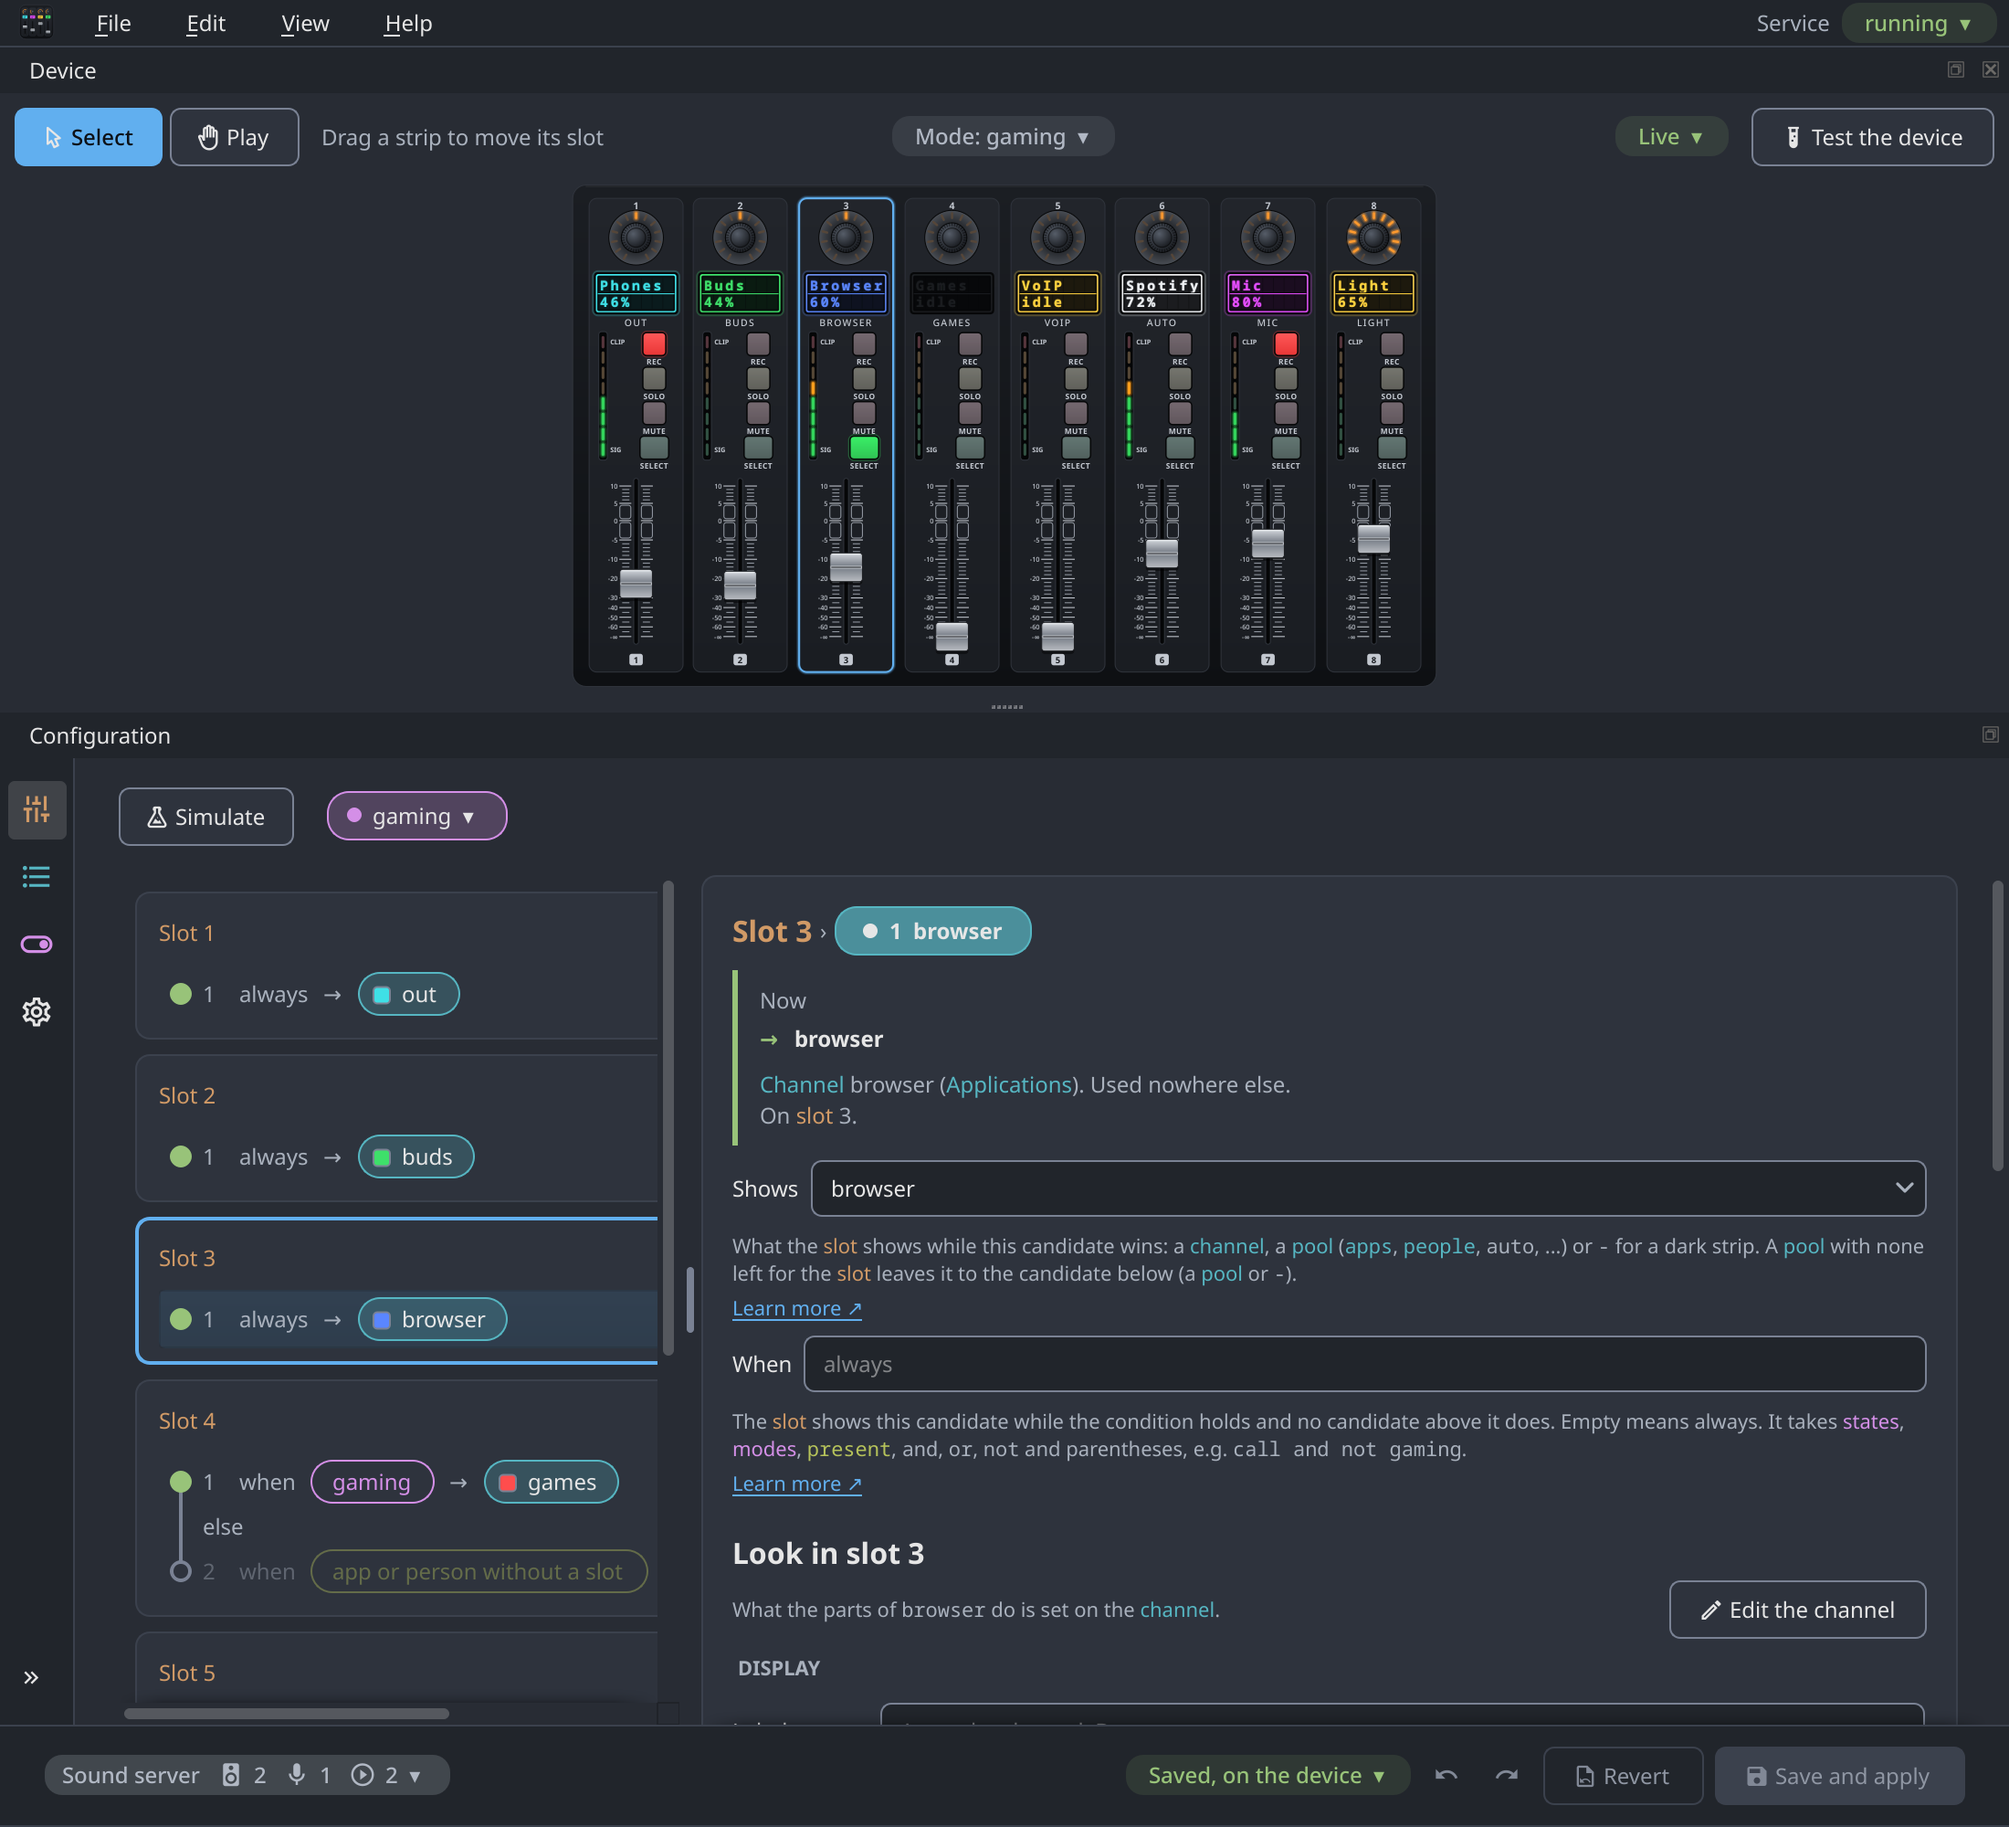
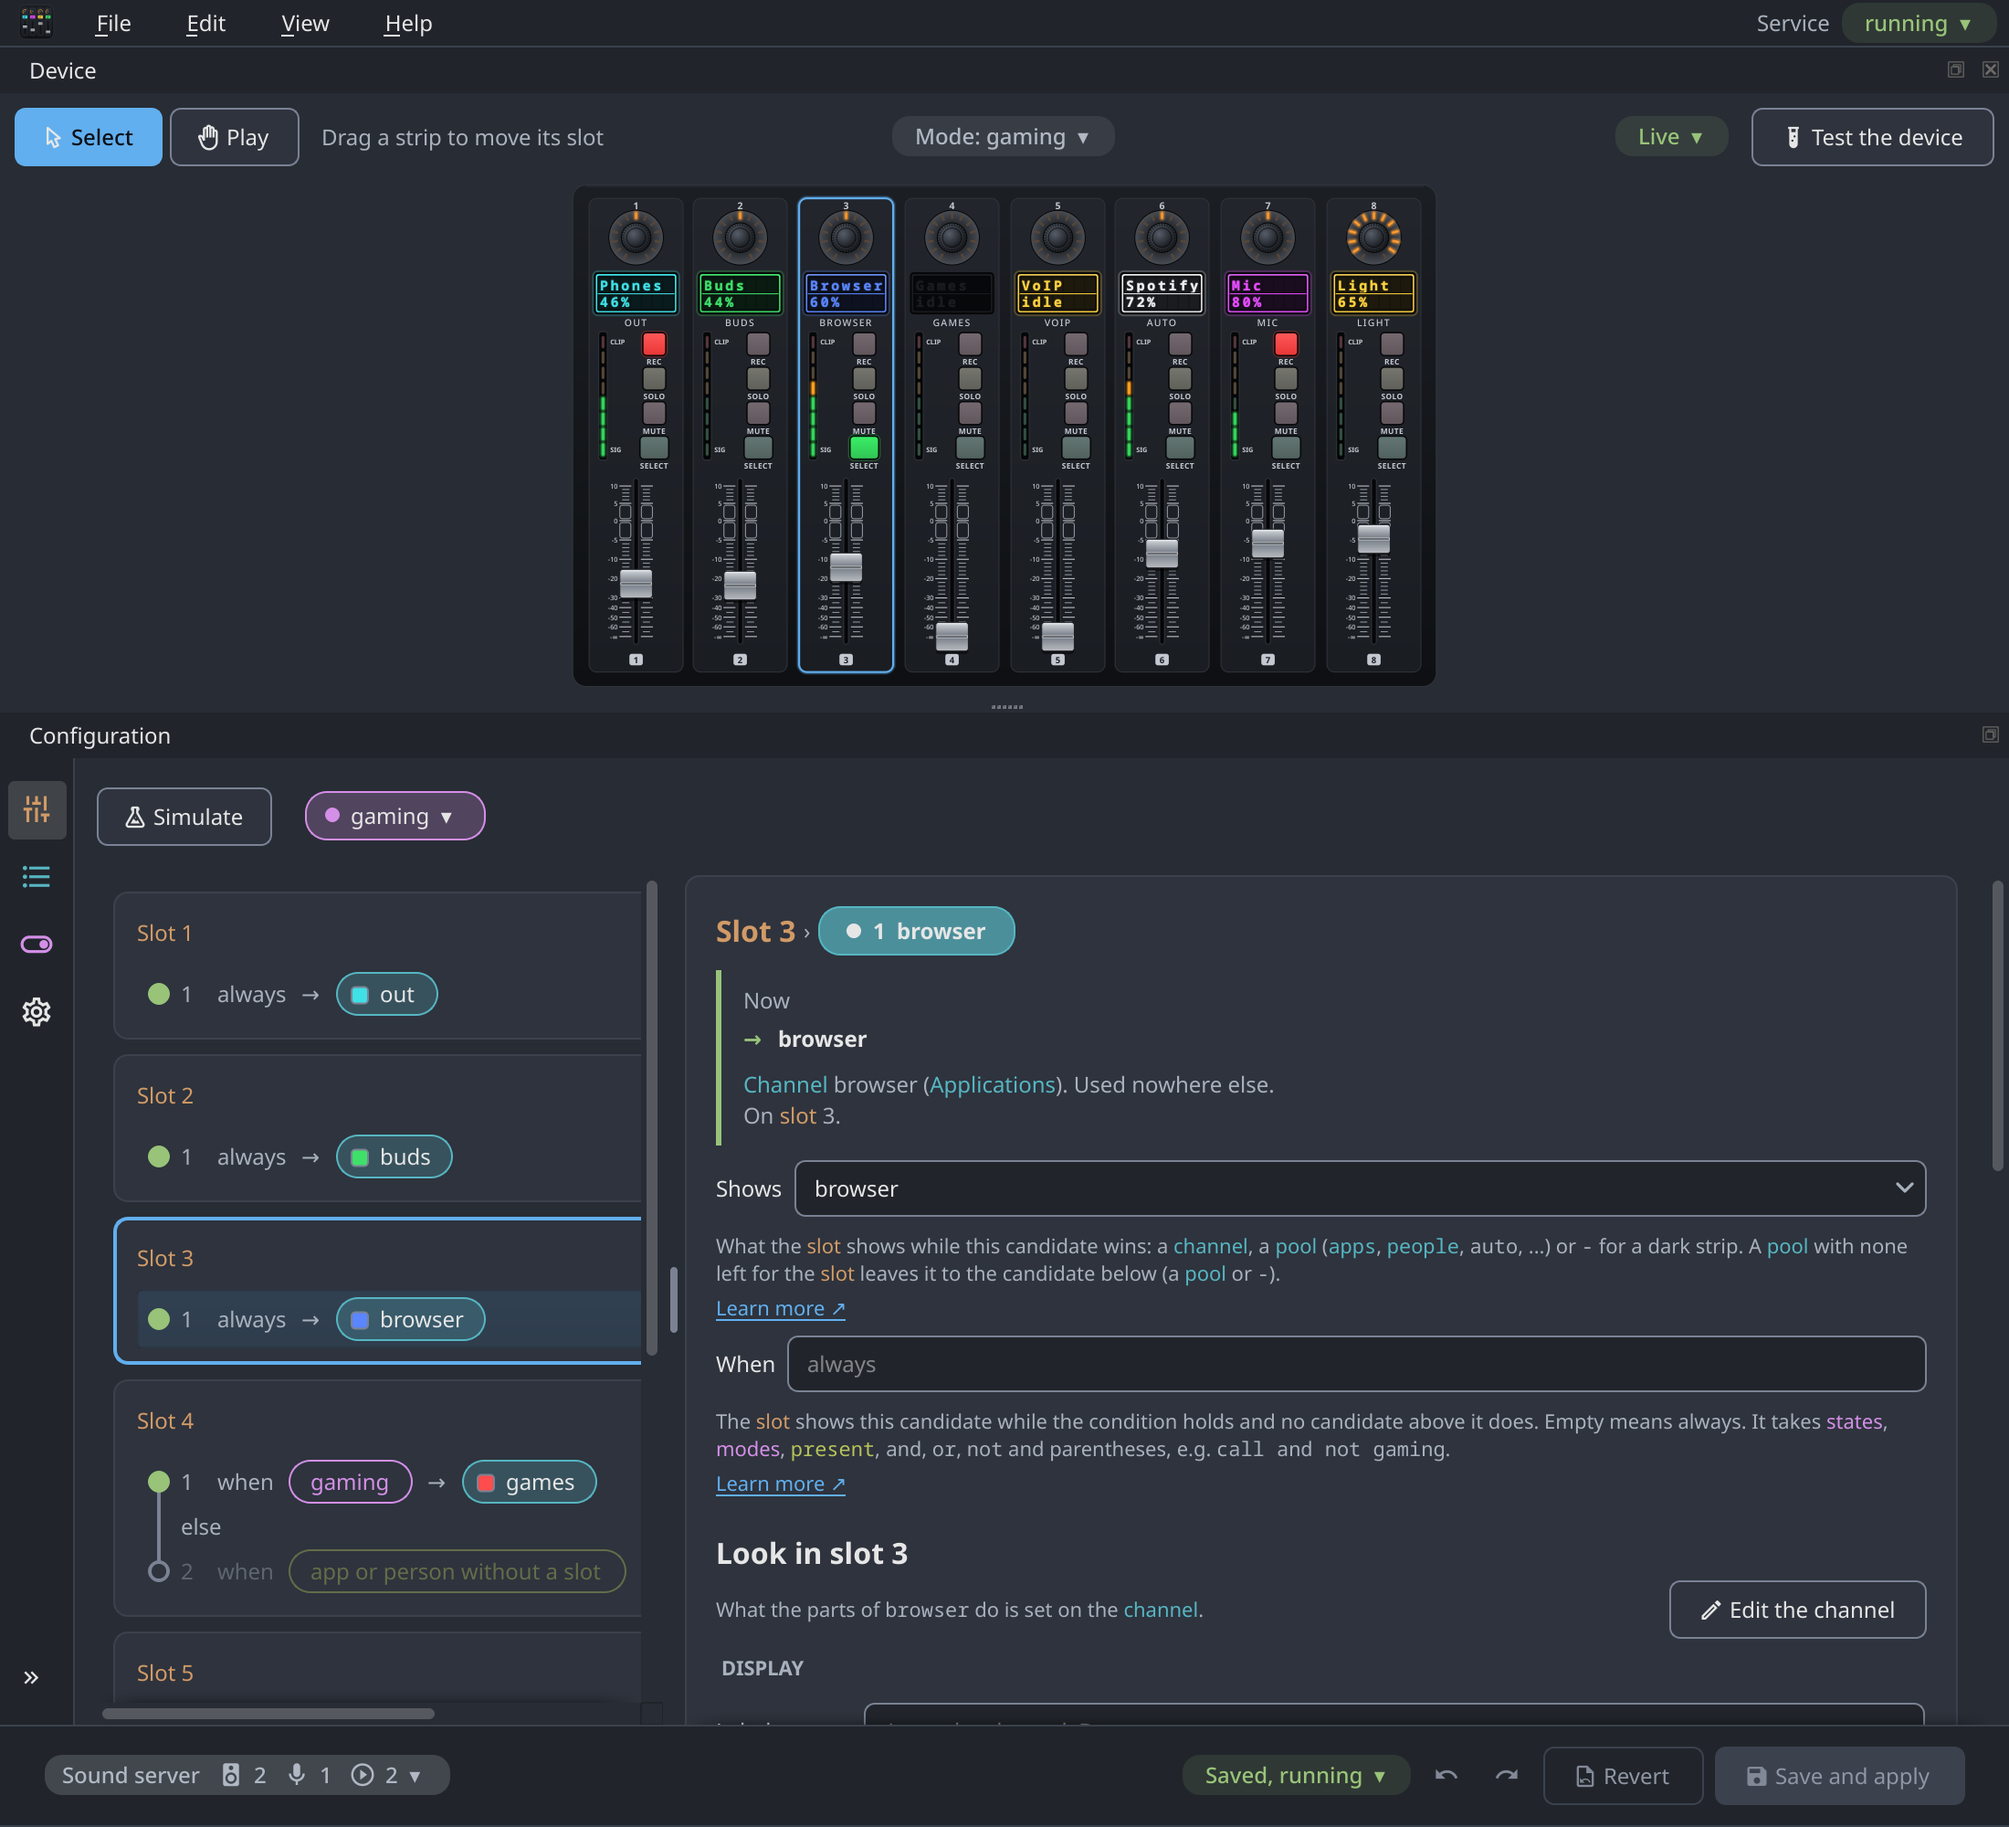
GUI: the pages closer to the rail of the window Configuration

diff --git a/src/xtouch_daemon/gui/qt/window/main_window.py b/src/xtouch_daemon/gui/qt/window/main_window.py
@@ -222,7 +222,7 @@ class MainWindow(QMainWindow):
         root = QWidget()
         body = QVBoxLayout(root)
         # the pages reach the right edge of the window, so their scroll bars sit at it; the bars above keep a margin
-        body.setContentsMargins(Space.XL, Space.L, 0, 0)
+        body.setContentsMargins(Space.M, Space.L, 0, 0)
         body.setSpacing(Space.S)
         bars = QVBoxLayout()
         bars.setContentsMargins(0, 0, Space.XL, 0)

diff --git a/CHANGELOG.md b/CHANGELOG.md
@@ -129,6 +129,7 @@ The format is based on [Keep a Changelog](https://keepachangelog.com/en/1.1.0/),
 
 ### Changed
 
+- GUI: the pages sit closer to the rail of the window Configuration (12 pixels instead of 24).
 - GUI, Simulate: it starts from reality, as the daemon tells it in its live view: the mode, the states that are on,
   the channels that are absent (e.g. the voice chat while Mumble doesn't run), the pools with members and the number
   of people, applications and devices. A what-if that differs from reality has a frame in the accent color instead of
